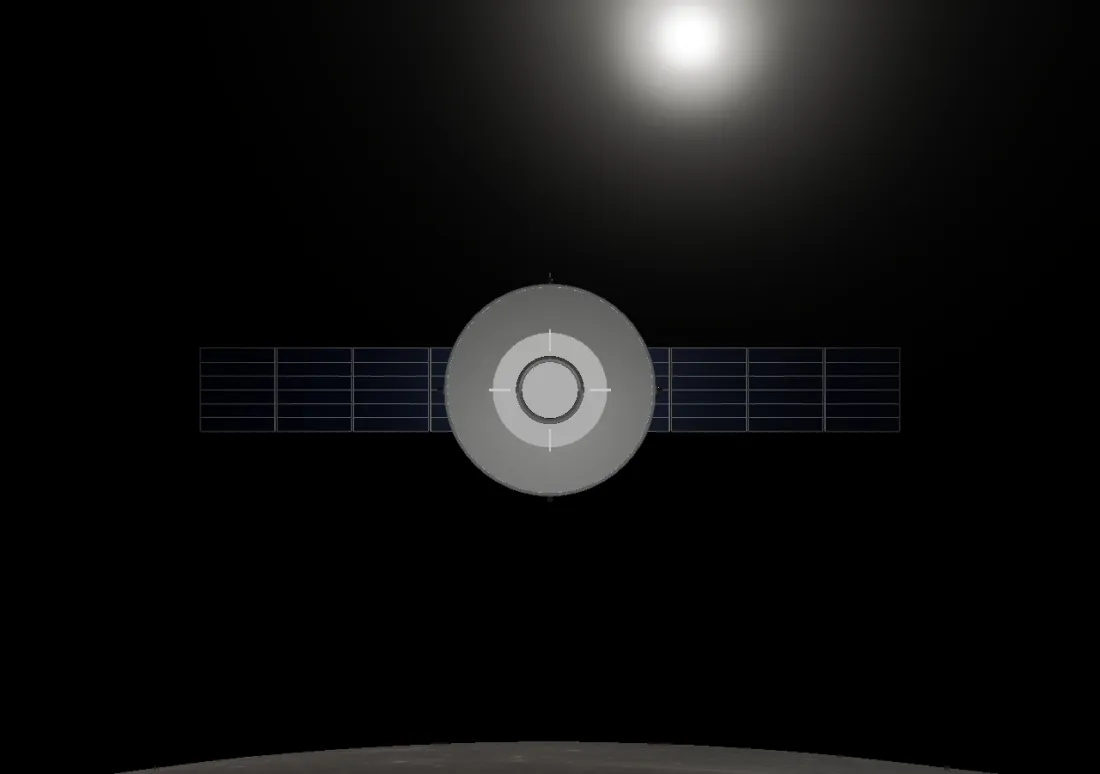
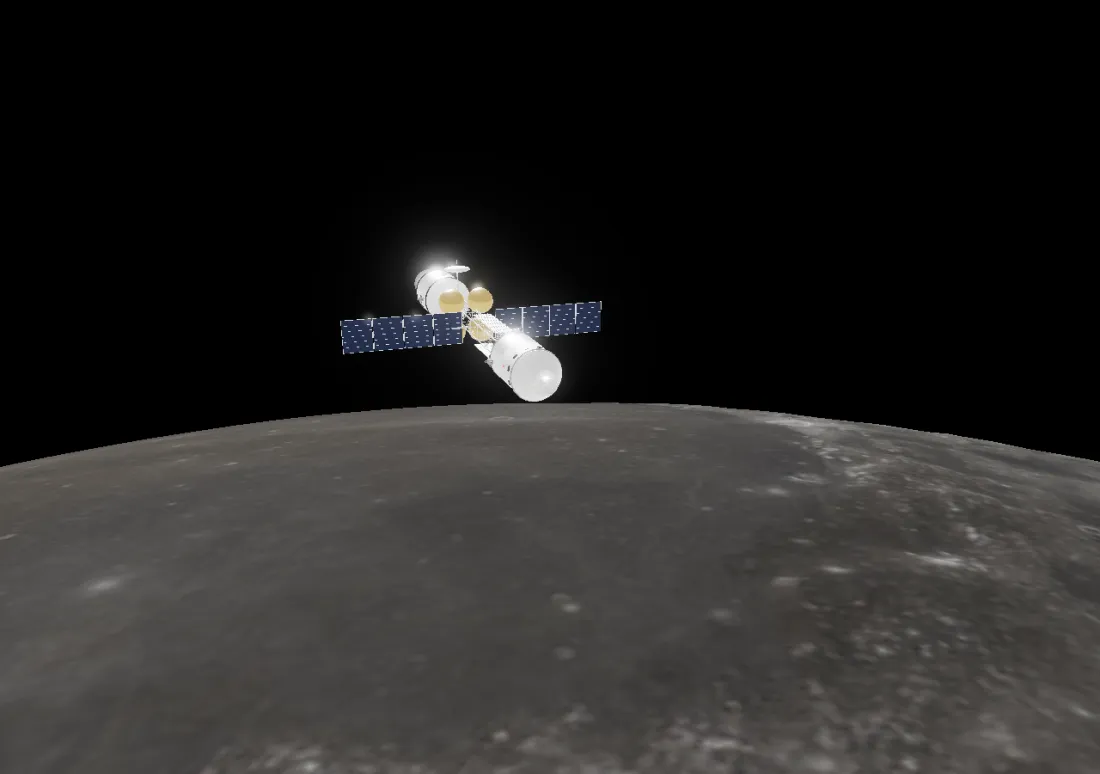
Brighten the Moon around ARGO and in the docking views

diff --git a/src/main.ts b/src/main.ts
@@ -1075,7 +1075,7 @@ function place(realDt: number) {
   // night side let auto-exposure lift the earthshine-lit scene instead of pinning it dark.
   // Pin exposure to the sunlit-surface brightness whenever the lit Moon fills much of the frame (any altitude up to
   // where it shrinks to a disc), so the surrounding black sky can't pull auto-exposure up and blow the surface white.
-  viewer.surfaceExposure = viewName === 'argo' ? (sunlitAt(mission.argo.r, sunPos) ? 1.6 : null)
+  viewer.surfaceExposure = viewName === 'argo' ? (sunlitAt(mission.argo.r, sunPos) ? ARGO_EXPOSURE : null)
     : len(cameraEqj) < R_MOON * 1.5 && toThree(forward).dot(localUp) < 0.55 && sunHeight > 0.02
       ? (viewName === 'rover' ? 0.26 : 0.18) / (0.12 * sunHeight + 0.015) : null;
   viewer.render(realDt);
@@ -1167,6 +1167,14 @@ const frustum = new T.Frustum(), projScreen = new T.Matrix4();
 /** Brightest sunlit radiance each body can show (Earth's clouds; the Moon's bright highlands). */
 const PEAK_RADIANCE = {earth: 0.78, moon: 0.25};
 /** Keep any sunlit body that is in frame at or below display value ~2 (ACES shoulder). */
+/**
+ * Exposure held near ARGO. Regolith reflects about 11% and ARGO's paint about 80%, so exposing hard for the ship left
+ * the Moon under it almost black — and the same cap was clamping the docking views, which is why they read dark too.
+ * This sits high enough that the lit surface reads as real grey with craters in it, and lets ARGO's white ride up onto
+ * the ACES shoulder (bright, still shaped) rather than pinning the whole frame down to the paint.
+ */
+const ARGO_EXPOSURE = 3.4;
+
 function brightBodyCap(sunPos: V3, earthPos: V3) {
   viewer.camera.updateMatrixWorld();
   projScreen.multiplyMatrices(viewer.camera.projectionMatrix, viewer.camera.matrixWorldInverse);
@@ -1186,7 +1194,7 @@ function brightBodyCap(sunPos: V3, earthPos: V3) {
   const argoPos = apply(sky.mciToEqj, mission.argo.r), argoDistance = len(sub(argoPos, cameraEqj));
   if (argoFrame.visible && argoDistance < 3000 && sunlitAt(mission.argo.r, sunPos)) {
     const rel = sub(argoPos, cameraEqj);
-    if (frustum.intersectsSphere(new T.Sphere(toThree(rel), 40))) cap = Math.min(cap, 1.6 / 0.8);
+    if (frustum.intersectsSphere(new T.Sphere(toThree(rel), 40))) cap = Math.min(cap, ARGO_EXPOSURE / 0.8);
   }
   // Standing on or skimming the Moon, the pixel meter already sees the ground; only cap the Moon as a distant disc.
   if (len(cameraEqj) > R_MOON * 1.5) consider([0, 0, 0], R_MOON, PEAK_RADIANCE.moon);

diff --git a/tools/capture-media.ts b/tools/capture-media.ts
@@ -62,7 +62,7 @@ const SHOTS: Shot[] = [
   {name: 'pad', url: '?view=pad&scenario=window-open&hud=0', setup: ''},
   {name: 'ascent', url: '?scenario=ascent&view=chase&hud=0', setup: 'M.run(260, 1/30, false);'},
   {name: 'docking-sight', url: '?scenario=terminal&view=docking&hud=1', setup: "M.debug.mission.attitudeMode='dock';M.run(60,1/30,false);"},
-  {name: 'argo', url: '?scenario=terminal&view=argo&hud=0', setup: 'M.run(20, 1/30, false);'},
+  {name: 'argo', url: '?view=argo&hud=0', setup: 'M.run(20, 1/30, false);'},
   {name: 'surface', url: '?view=rille&hud=0', setup: ''},
   {name: 'orbit', url: '?view=orbit&hud=0', setup: ''},
   {name: 'buggy', url: '?scenario=drive&hud=1', setup: "M.key('w',true);M.key('shift',true);M.run(120,1/30,false);M.key('d',true);M.run(18,1/30,false);M.key('d',false);M.run(8,1/30,false);"},
@@ -78,8 +78,8 @@ const SHOTS: Shot[] = [
     setup: "M.debug.mission.attitudeMode='dock';const step=i=>{M.debug.mission.translation=M.debug.mission.translationCue.keys;};"},
   {name: 'drive', url: '?scenario=drive&hud=1', clip: {frames: 110, fps: 10, width: 800},
     setup: "M.key('w',true);M.key('shift',true);const step=i=>{if(i===60)M.key('d',true);if(i===85)M.key('d',false);};"},
-  {name: 'dock-out', url: '?scenario=terminal&view=argo&hud=0', clip: {frames: 140, fps: 10, width: 800},
-    setup: "M.debug.mission.attitudeMode='dock';const step=i=>{M.debug.mission.translation=M.debug.mission.translationCue.keys;};"},
+  {name: 'dock-out', url: '?scenario=terminal&hud=0', clip: {frames: 140, fps: 10, width: 800},
+    setup: "M.setView('argo');M.debug.mission.attitudeMode='dock';const step=i=>{M.debug.mission.translation=M.debug.mission.translationCue.keys;};"},
   {name: 'liftoff', url: '?scenario=window-open&view=chase&hud=1', clip: {frames: 150, fps: 12, width: 900},
     setup: "M.debug.mission.waitForWindow();M.debug.mission.advance(30,1);M.debug.mission.assisted=true;M.debug.mission.launch();const step=i=>{};"},
 ];

diff --git a/README.md b/README.md
@@ -14,9 +14,9 @@ It runs entirely in the browser (WebGL, no backend). A desktop browser with a GP
 
 <p align="center">
   <img src="docs/media/dock.gif" alt="The docking sight closing on ARGO's port during the final approach" width="46%">
-  <img src="docs/media/dock-out.gif" alt="An outside view of the approach to the mothership above the Moon" width="46%">
+  <img src="docs/media/dock-out.gif" alt="The lander closing on the mothership above the sunlit Moon, seen from outside" width="46%">
 </p>
-<p align="center"><sub>Left: the docking sight on final approach. Right: the same approach from outside, ARGO's port and panels against the limb.</sub></p>
+<p align="center"><sub>Left: the docking sight on final approach. Right: the same approach from outside, KESTREL closing on ARGO above the sunlit Moon.</sub></p>
 
 Relative motion near another orbit is not intuitive — burn toward the target and you drift past it. The HUD works in the LVLH frame and predicts the drift with the Clohessy–Wiltshire equations. Match velocity, line up on the port axis, and close under about 0.2 m/s.
 
